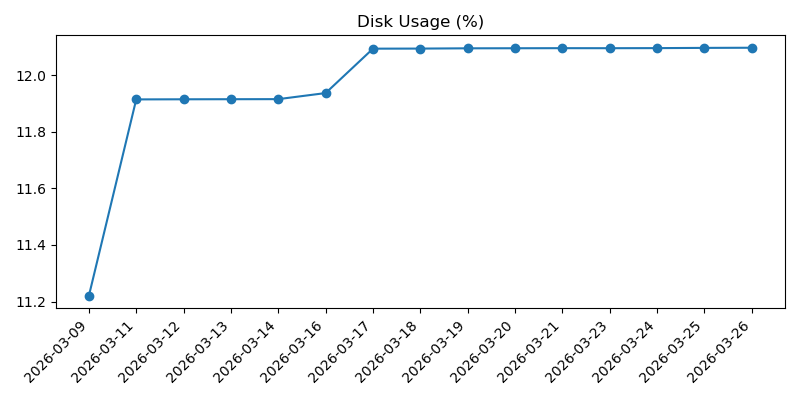
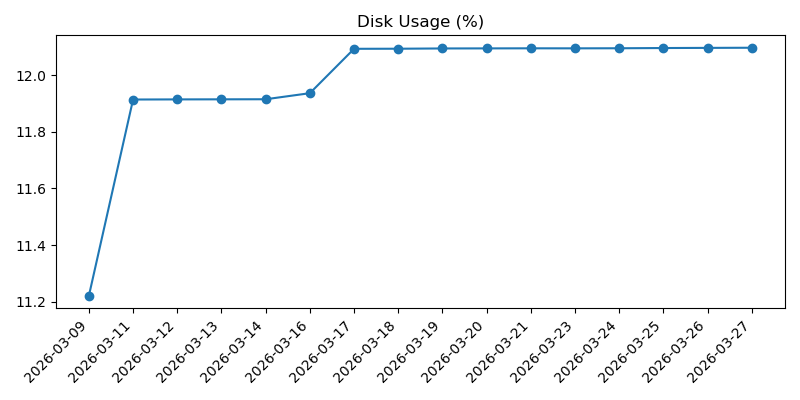
Add daily health and weather snapshot

diff --git a/2026-03.md b/2026-03.md
@@ -509,3 +509,37 @@
 - Overall: Good
 - Warning: None
 
+## 2026-03-27 12:48:51
+
+### Machine
+- Uptime: up 9 hours, 45 minutes
+- CPU load (1m, 5m, 15m): 0.00, 0.00, 0.00
+- RAM used: 175 MB / 921 MB (19.0%)
+- Disk used (/): 3.5 GB / 28.8 GB (12.1%)
+- Free disk space (/): 24.1 GB
+- CPU temp: 35.9°C
+- Voltage / throttling: OK
+
+### Reachability
+- Internet check (1.1.1.1): Reachable (3.3 ms)
+
+### Weather
+- Madrid:
+  - Condition: Despejado
+  - Max temp: 19°C
+  - Min temp: 5°C
+  - Feels like: 12°C
+  - Chance of rain: 0%
+  - Warnings: None reported
+- Barcelona:
+  - Condition: Despejado
+  - Max temp: 16°C
+  - Min temp: 10°C
+  - Feels like: 13°C
+  - Chance of rain: 0%
+  - Warnings: None reported
+
+### Health
+- Overall: Good
+- Warning: None
+
